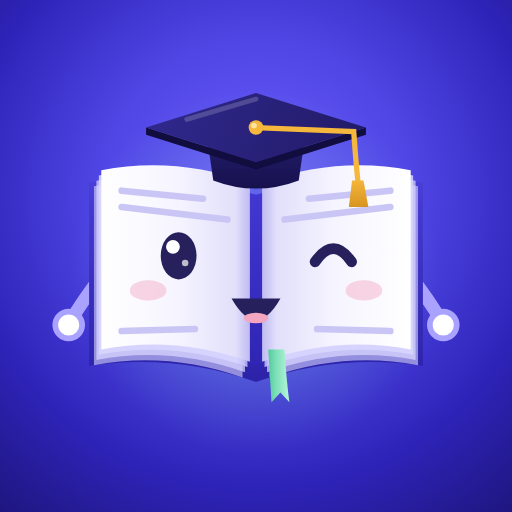
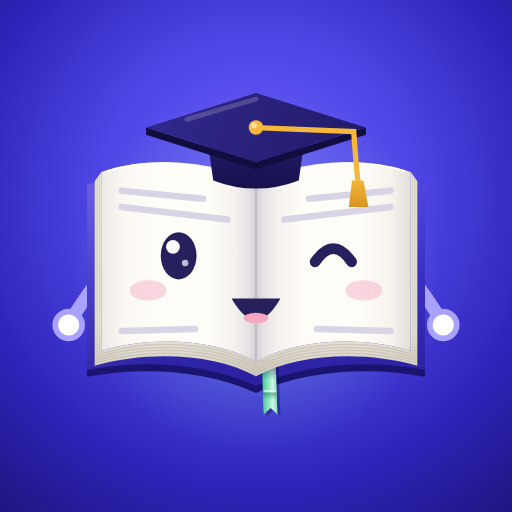
feat(icone): Folha novo como ícone do app (adaptável) e ícone da loja refeito; versão 3.3.7 (35)

Changed region(s): [[0.1562, 0.3125, 0.8438, 0.8125], [0.25, 0.3125, 0.4062, 0.3438]]

diff --git a/docs/media/store-2026/launcher.html b/docs/media/store-2026/launcher.html
@@ -1,0 +1,19 @@
+<!doctype html><meta charset="utf-8">
+<!-- Camadas do ícone adaptável do app (432 px = 108 dp em xxxhdpi). ?camada=fundo ou ?camada=frente.
+     O Folha cabe no círculo seguro de 66 dp do centro, para nenhum formato de ícone cortar o capelo. -->
+<style>
+html,body{margin:0;width:432px;height:432px;overflow:hidden;background:transparent}
+.bg{position:absolute;inset:0;background:
+ radial-gradient(circle at 50% 40%, #6D5BFF 0%, #4F46E5 34%, #2E23B8 66%, #1E1680 100%)}
+.glow{position:absolute;left:96px;top:100px;width:240px;height:240px;border-radius:50%;
+ background:radial-gradient(circle, rgba(126,224,184,.32), rgba(126,224,184,0) 65%)}
+.f{position:absolute;left:96px;top:110px}
+</style>
+<div id="root"></div>
+<script src="folha.js"></script>
+<script>
+const camada = new URLSearchParams(location.search).get("camada") || "frente";
+document.getElementById("root").innerHTML = camada === "fundo"
+  ? `<div class="bg"></div><div class="glow"></div>`
+  : `<div class="f">${folhaSvg({ mood: "wink", size: 240, look: [0, 0], shadow: false, confetti: false, armColor: "#A9A2FF" })}</div>`;
+</script>
